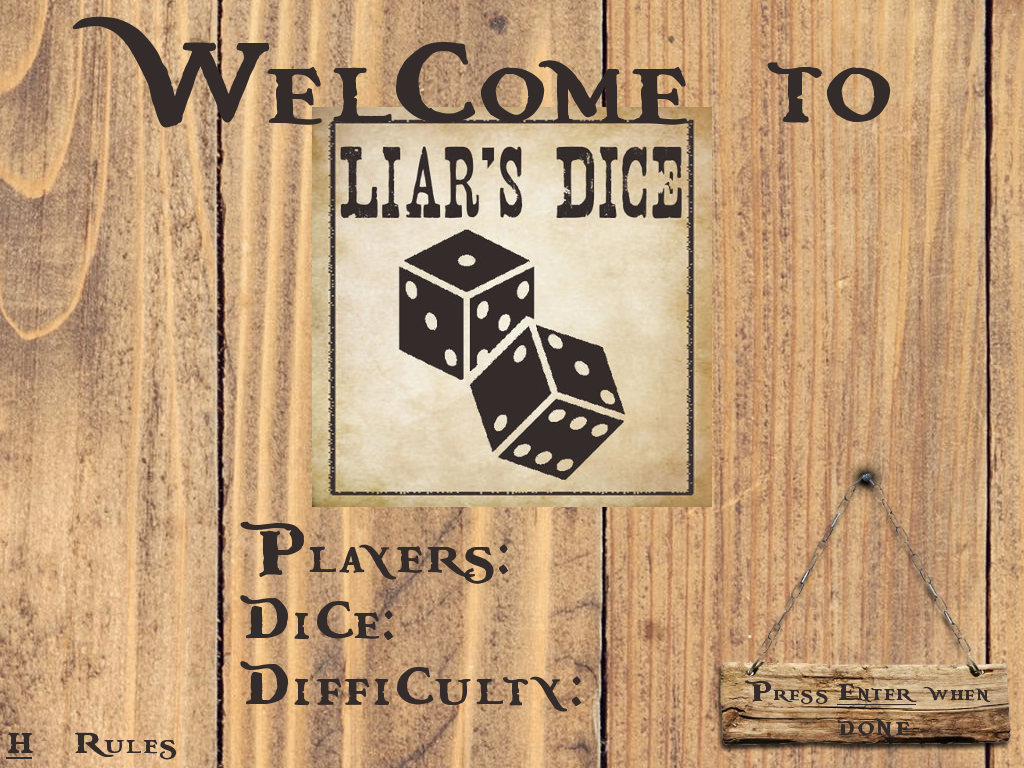
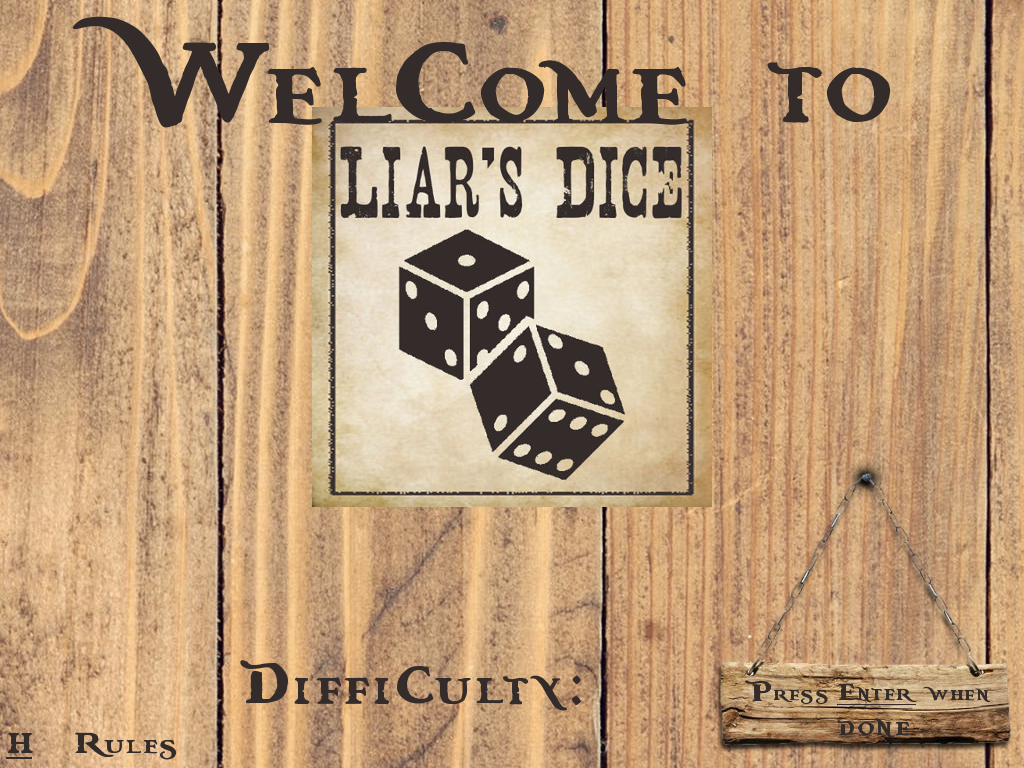
fixed errors, working on intro selection bug

diff --git a/assignment-4/src/screens/intro.cpp b/assignment-4/src/screens/intro.cpp
@@ -64,12 +64,12 @@ void IntroScreen::onKeyDown(const Uint8* const keystate) {
 }
 
 void IntroScreen::draw() const {
+  std::cout << row << ", " << col << ", " << difficulty << std::endl;
   // World
   introBackground.draw();
-
   // Current data
   menuWriter.writeText("Join", xstart, ystart,
-                       row == 0 && col == 1 ? hoverColor : normalColor);
+                       row == 0 && col == 0 ? hoverColor : normalColor);
   menuWriter.writeText("Start", xstart + xstep, ystart,
                        row == 0 && col == 1 ? hoverColor : normalColor);
   std::string difficultyChar;
@@ -84,7 +84,7 @@ void IntroScreen::draw() const {
       difficultyChar = "H";
       break;
   }
-  menuWriter.writeText(difficultyChar, xstart, ystart + ystep,
+  menuWriter.writeText(difficultyChar, xstart + xstep * 1.5, ystart + ystep,
                        row == 1 ? hoverColor : normalColor);
 }
 

diff --git a/assignment-4/include/screens/create.h b/assignment-4/include/screens/create.h
@@ -18,8 +18,8 @@ class CreateScreen : public Screen {
 
  private:
   const World createBackground{"screens/create/background"};  // todo
-  const uint maxChar{10};
-  std::string name;
+  const uint maxChar{11};
+  std::string name{" "};
   int difficulty;
 
   // 4-29 is A-Z for SDL input (no case)
@@ -28,12 +28,12 @@ class CreateScreen : public Screen {
   // 65-90 is ascii A-Z (uppercase)
   const uint ASCII_A = 65;
 
-  IoMod menuWriter{70};
+  IoMod menuWriter{60};
   Navigator& navigator{Global::get().navigator};
 
   // Text Positiong
-  const int ystart = 300;
-  const int xstart = 500;
+  const int ystart = 250;
+  const int xstart = 300;
   // Text Rendering
   const SDL_Color normalColor{52, 44, 42, 255};
 };

diff --git a/assignment-4/include/screens/intro.h b/assignment-4/include/screens/intro.h
@@ -18,16 +18,16 @@ class IntroScreen : public Screen {
   virtual void update(Uint32 ticks);
 
  private:
-  int row = 0;
-  int col = 0;
+  bool row = 0;
+  bool col = 0;
   int difficulty = 0;
   IoMod menuWriter{70};
   Navigator& navigator{Global::get().navigator};
 
   // Text Positiong
-  const int ystart = 500;
-  const int ystep = 75;
-  const int xstart = 630;
+  const int ystart = 530;
+  const int ystep = 120;
+  const int xstart = 330;
   const int xstep = 200;
   const World introBackground{"screens/intro/background"};
   // Text Rendering

diff --git a/assignment-4/src/screens/lobby.cpp b/assignment-4/src/screens/lobby.cpp
@@ -5,7 +5,7 @@
 LobbyScreen::LobbyScreen(int difficulty, bool isOwner)
     : difficulty(difficulty), isOwner(isOwner) {
   names.emplace_back(isOwner ? "You" : "You (Not Owner)");
-  for (int i = 1; i <= 5; i++) {
+  for (int i = 1; i < 5; i++) {
     names.emplace_back("Bot " + std::to_string(i));
   }
 }
@@ -36,3 +36,5 @@ void LobbyScreen::draw() const {
     menuWriter.writeText(names[i], xstart, ystart + i * ystep, normalColor);
   }
 }
+
+void LobbyScreen::update(Uint32 ticks) { (void)ticks; }

diff --git a/assignment-4/src/screens/create.cpp b/assignment-4/src/screens/create.cpp
@@ -21,7 +21,7 @@ void CreateScreen::onKeyDown(const Uint8* const keystate) {
   }
   // Delete character
   if (keystate[SDL_SCANCODE_BACKSPACE]) {
-    if (name.size() <= 0) return;
+    if (name.size() <= 1) return;
     name.pop_back();
   }
   // Add character
@@ -37,3 +37,5 @@ void CreateScreen::draw() const {
   createBackground.draw();
   menuWriter.writeText(name, xstart, ystart, normalColor);
 }
+
+void CreateScreen::update(Uint32 ticks) { (void)ticks; }

diff --git a/assignment-4/include/screens/lobby.h b/assignment-4/include/screens/lobby.h
@@ -29,9 +29,9 @@ class LobbyScreen : public Screen {
   Navigator& navigator{Global::get().navigator};
 
   // Text Positiong
-  const int ystart = 300;
-  const int ystep = 40;
-  const int xstart = 500;
+  const int ystart = 30;
+  const int ystep = 127;
+  const int xstart = 230;
   // Text Rendering
   const SDL_Color normalColor{52, 44, 42, 255};
 };

diff --git a/assignment-4/src/screens/unity.cpp b/assignment-4/src/screens/unity.cpp
@@ -1,6 +1,8 @@
 #include "game/unity.cpp"
+#include "create.cpp"
 #include "help.cpp"
 #include "intro.cpp"
+#include "lobby.cpp"
 #include "playerInfo.cpp"
 #include "rules.cpp"
 #include "screen.cpp"
